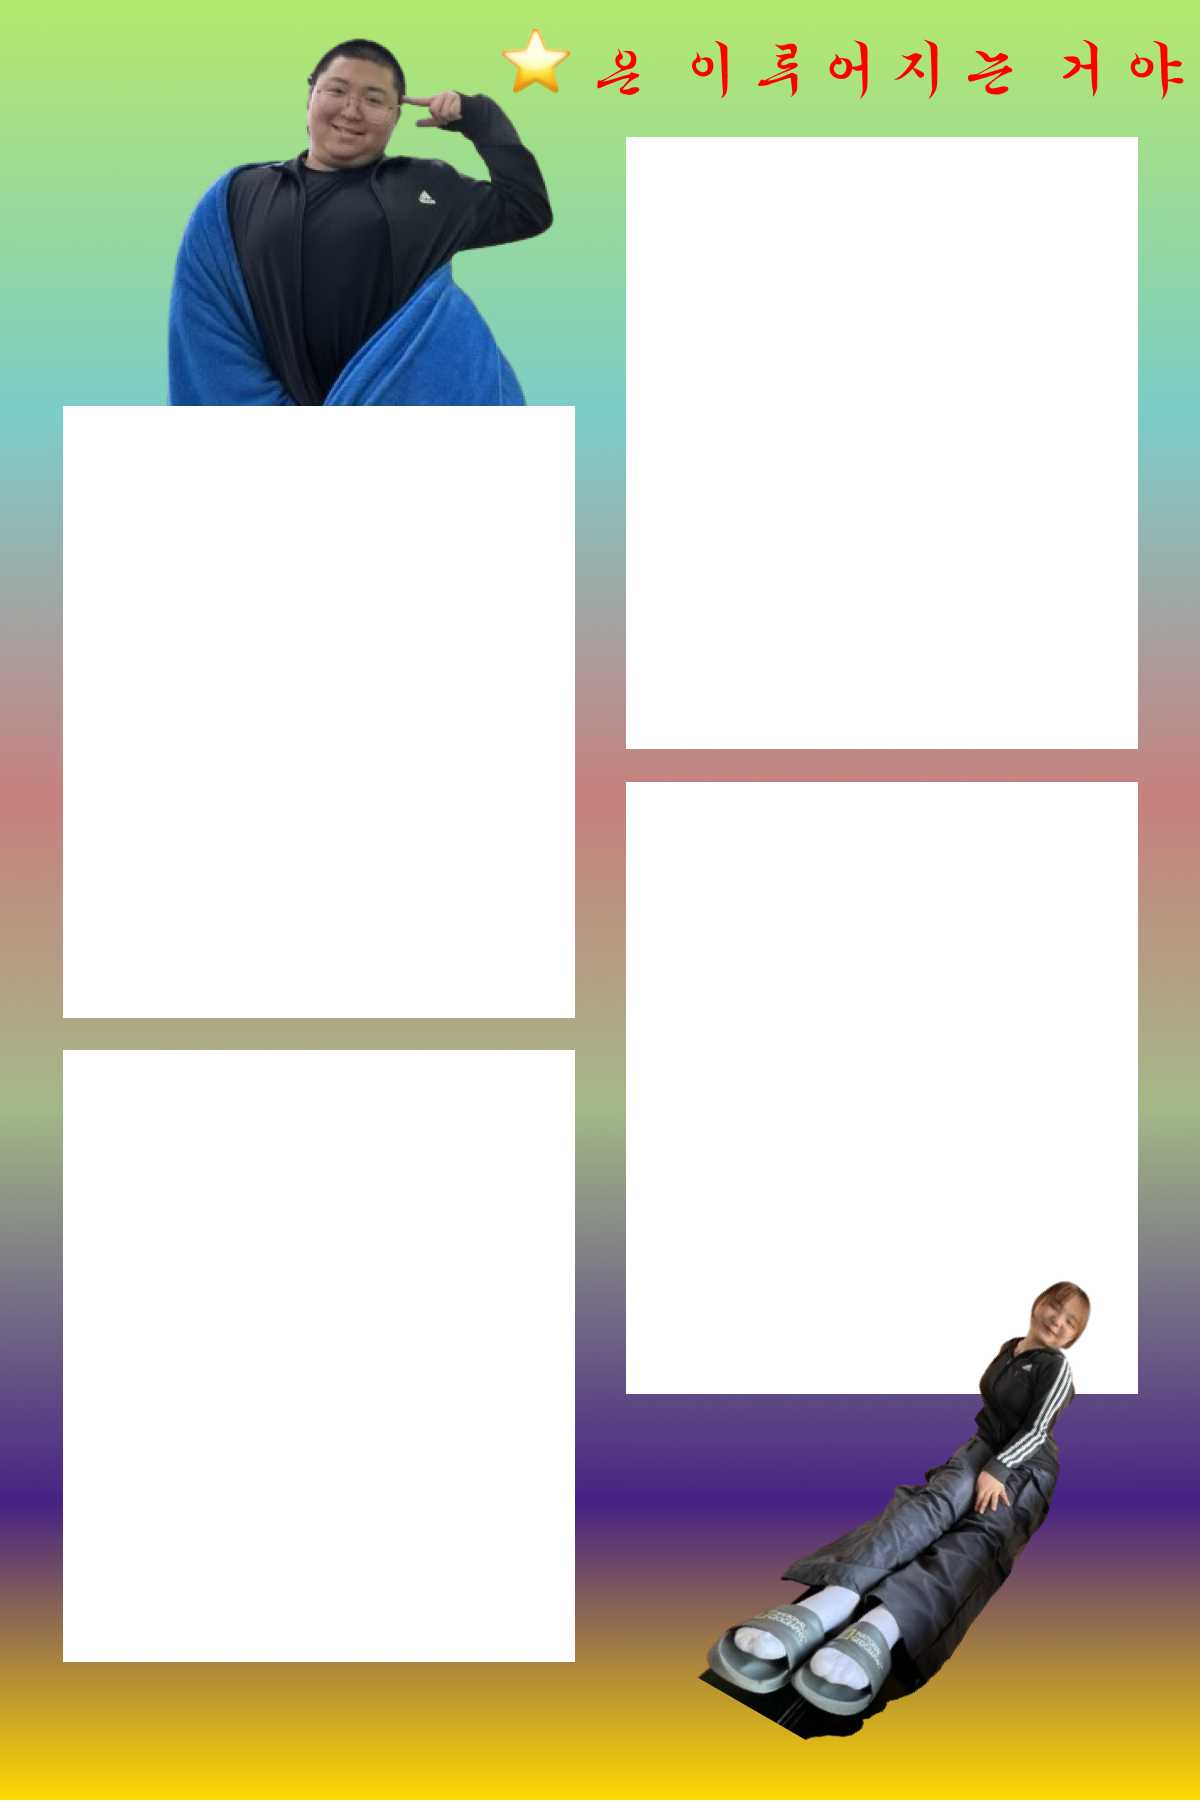
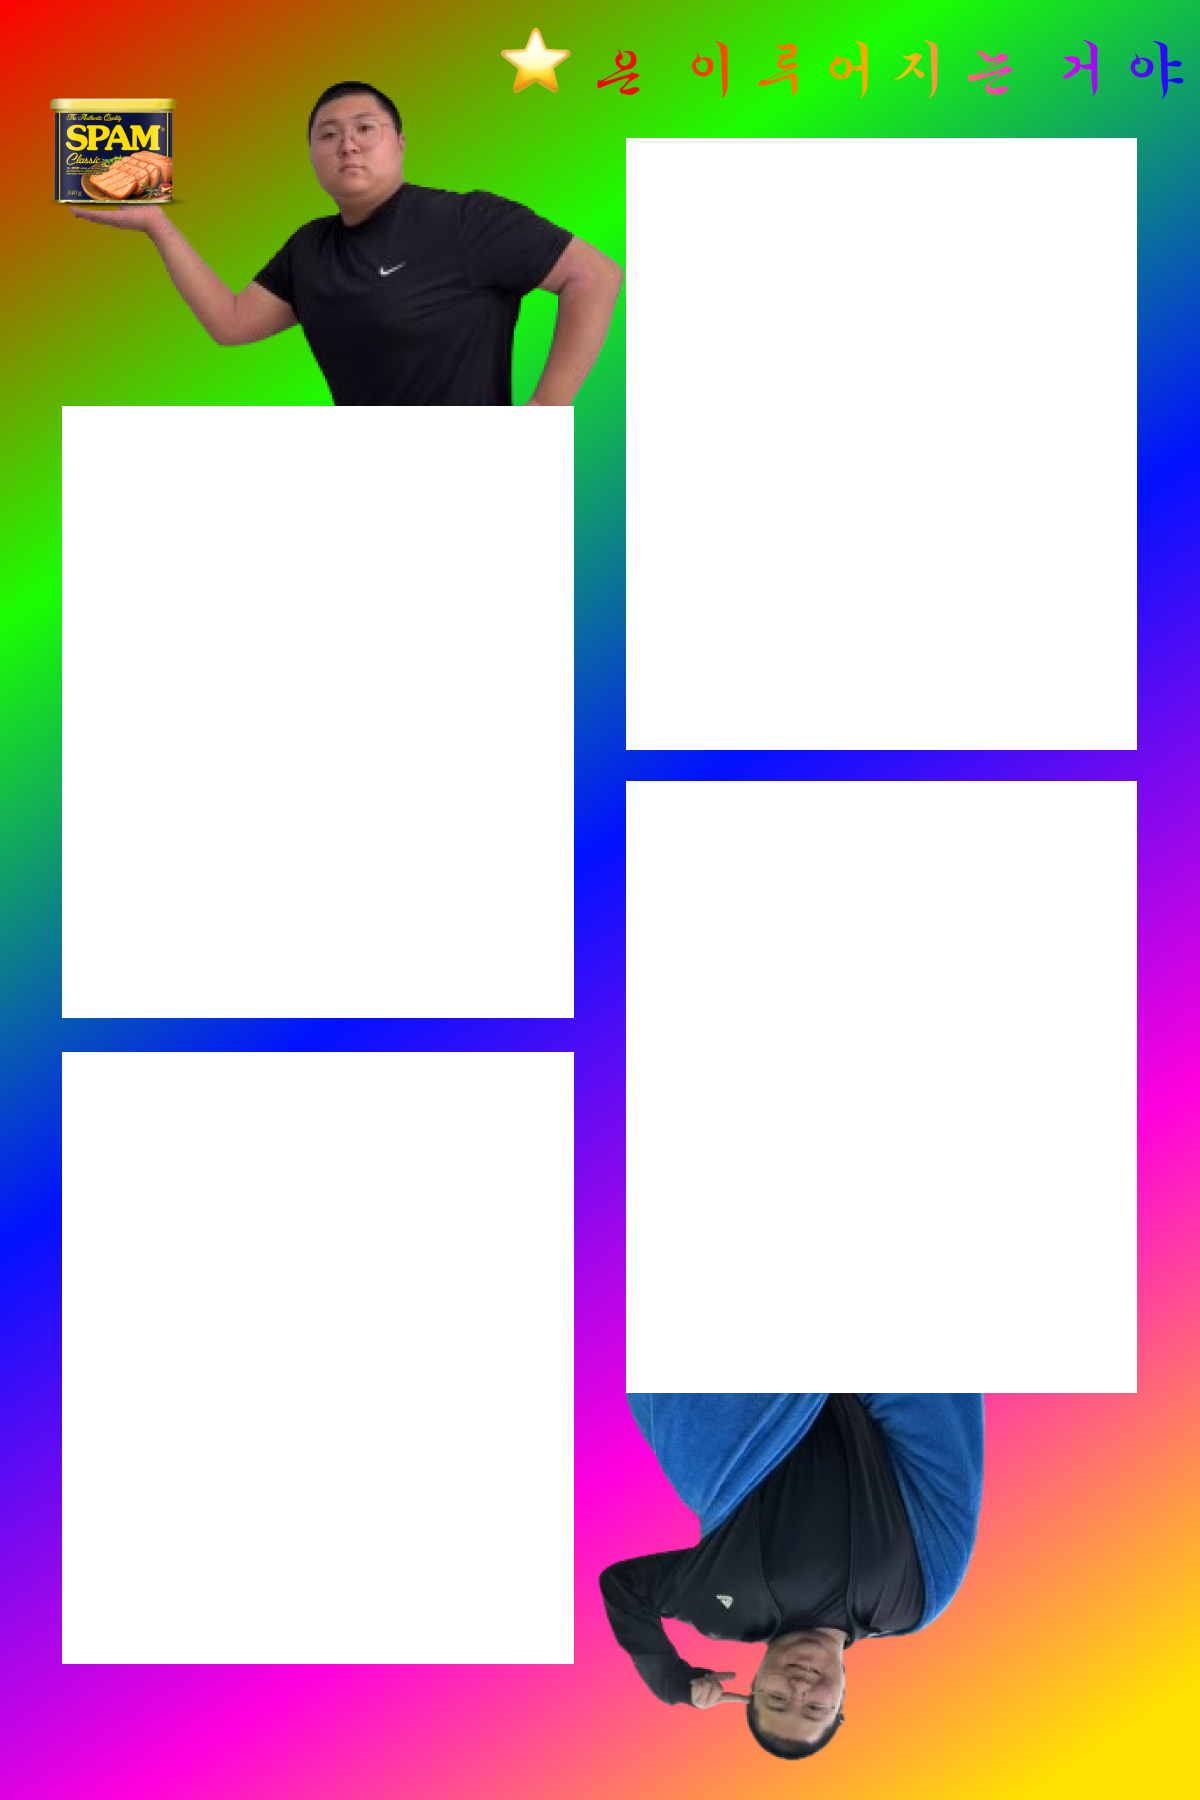
프레임 변경 및 컴포넌트 추가

diff --git a/src/App.js b/src/App.js
@@ -2,6 +2,8 @@ import React from "react";
 import { BrowserRouter as Router, Route, Routes } from "react-router-dom";
 import Start from "./components/Start"; // StartScreen 컴포넌트 불러오기
 import Choose from "./components/Choose"; // ChooseScreen 컴포넌트 불러오기
+import IdolWebcam from "./components/idol/IdolCam"; // IdolWebcamScreen 컴포넌트 불러오기
+import NormalWebcam from "./components/normal/NormalCam";
 import Download from "./components/Download"; // Download 컴포넌트 불러오기
 
 function App() {
@@ -10,8 +12,9 @@ function App() {
       <Routes>
         <Route path="/" element={<Start />} /> {/* 루트 경로 */}
         <Route path="/choose" element={<Choose />} /> {/* /choose 경로 */}
-        <Route path="/idol-webcam" element={<Download />} />{" "}
-        {/* /idol-webcam 경로 */}
+        <Route path="/download" element={<Download />} />{" "}
+        <Route path="/idol-webcam" element={<IdolWebcam />} />{" "}
+        <Route path="/normal-webcam" element={<NormalWebcam />} />{" "}
       </Routes>
     </Router>
   );

diff --git a/src/components/Choose.js b/src/components/Choose.js
@@ -28,8 +28,8 @@ const Choose = ({ selectFrame }) => {
       id: "frame4",
       imageClass: "yohan-frame",
       description: `
-이 프레임은 교내 유일 소프트웨어 동아리 SPAM 동아리 
-3기 부장 안요한 프레임입니다. 
+프레임은 교내 유일 소프트웨어이자 0티어 동아리 SPAM의
+3기 부장 안요한 프레임입니다.
 '⭐은 이루어지는 거야' 라는 문구가 적혀 있어, 
 희망과 목표 달성에 대한 메시지를 전달하는 느낌을 줍니다. 
 배경은 무지갯빛 그라데이션으로 처리되어 있습니다. 
@@ -62,7 +62,7 @@ const Choose = ({ selectFrame }) => {
   const handleNext = () => {
     if (currentFrame) {
       selectFrame(currentFrame.id); // 선택된 프레임을 부모 컴포넌트에 전달
-      navigate("/idol-webcam"); // 다음 단계로 이동
+      navigate("/normal-webcam"); // 다음 단계로 이동
     } else {
       alert("프레임을 선택해주세요.");
     }
